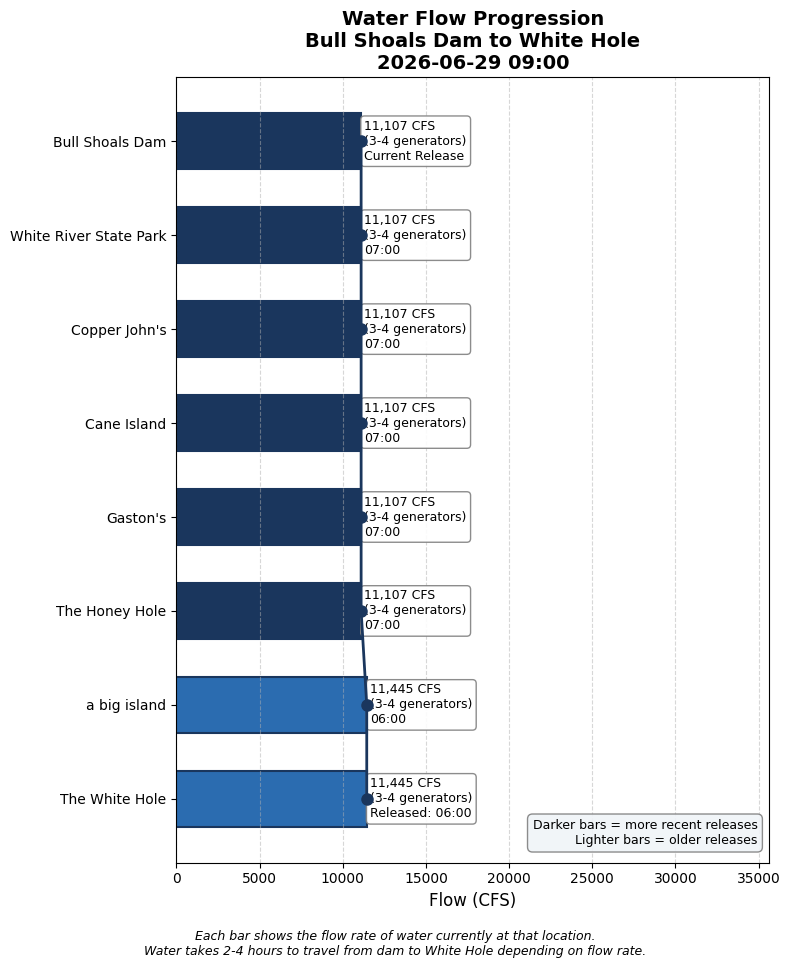
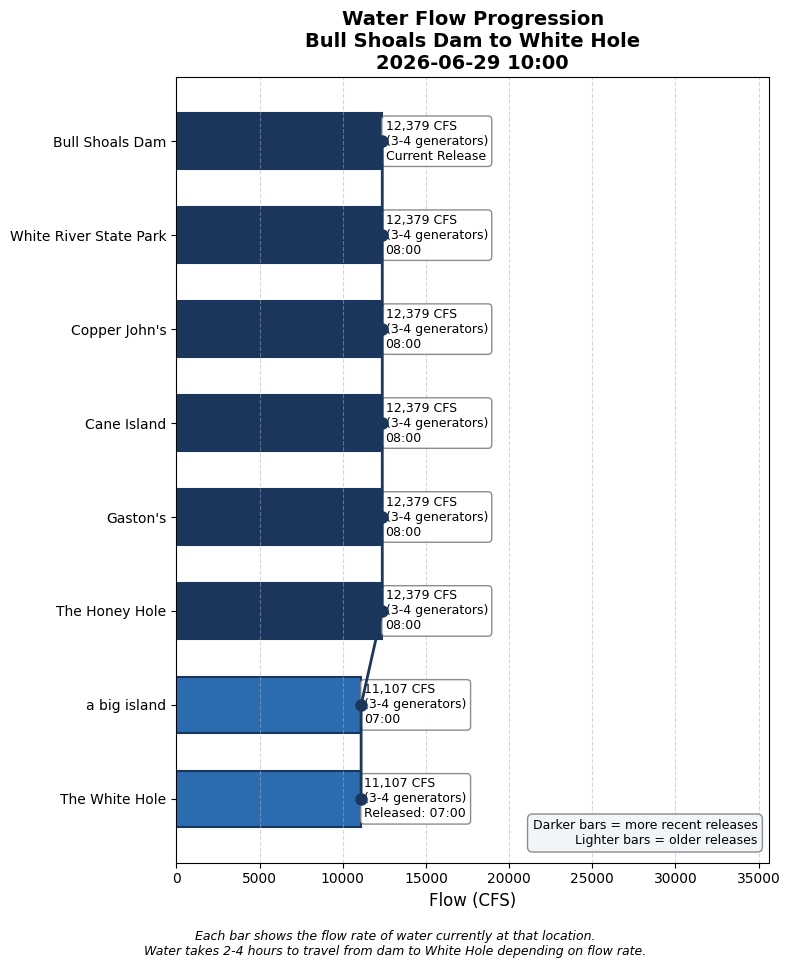
Update water conditions 2026-06-29 10:00

Changed region(s): [[0.4557, 0.093, 0.638, 0.8678], [0.4861, 0.062, 0.5772, 0.093], [0.638, 0.062, 0.6987, 0.093]]

diff --git a/white_hole_conditions.html b/white_hole_conditions.html
@@ -3,7 +3,7 @@
 <head>
     <meta charset="UTF-8">
     <meta name="viewport" content="width=device-width, initial-scale=1.0">
-    <title>White Hole Conditions - 2026-06-29 09:00</title>
+    <title>White Hole Conditions - 2026-06-29 10:00</title>
     <style>
         body {
             font-family: -apple-system, BlinkMacSystemFont, 'Segoe UI', Roboto, sans-serif;
@@ -148,7 +148,7 @@
 </head>
 <body>
     <h1>White Hole Current Conditions</h1>
-    <p class="subtitle">Monday, June 29, 2026 at 09:00 AM</p>
+    <p class="subtitle">Monday, June 29, 2026 at 10:00 AM</p>
 
     <!-- HEADLINE BANNER -->
     <div class="headline-banner">
@@ -160,7 +160,7 @@
     <!-- CURRENT CONDITIONS -->
     <div class="current-conditions">
         <h3>Current Conditions at White Hole</h3>
-        <div class="flow-display">11,445 CFS</div>
+        <div class="flow-display">11,107 CFS</div>
         <div class="generator-display">Equivalent to 3-4 generators</div>
         <div class="condition-pills">
             <span class="pill wading">No Wading</span>
@@ -189,6 +189,14 @@
                 <tr><td colspan="3" style="padding: 8px 10px; font-size: 0.8em; font-weight: bold; color: #6b46c1; text-transform: uppercase; letter-spacing: 0.05em; background-color: #f3e8ff;">Scheduled (SWPA forecast)</td></tr>
                 
                     <tr style="background-color: #faf5ff; ">
+                        <td style="padding: 10px; font-weight: bold;">1 PM</td>
+                        <td style="padding: 10px;">20,506 CFS<br><small style="color: #666;">(6-7 generators: 20256 generation + 250 min flow)</small></td>
+                        <td style="padding: 10px;">~3:01 PM
+                            <span style="display: inline-block; margin-left: 6px; padding: 2px 8px; border-radius: 12px; font-size: 0.8em; background-color: #fee2e2; color: #991b1b;">No Wading</span>
+                        </td>
+                    </tr>
+                
+                    <tr style="background-color: #faf5ff; ">
                         <td style="padding: 10px; font-weight: bold;">12 PM</td>
                         <td style="padding: 10px;">20,506 CFS<br><small style="color: #666;">(6-7 generators: 20256 generation + 250 min flow)</small></td>
                         <td style="padding: 10px;">~2:01 PM
@@ -212,33 +220,25 @@
                         </td>
                     </tr>
                 
-                    <tr style="background-color: #faf5ff; ">
-                        <td style="padding: 10px; font-weight: bold;">9 AM</td>
-                        <td style="padding: 10px;">13,754 CFS<br><small style="color: #666;">(4-5 generators: 13504 generation + 250 min flow)</small></td>
-                        <td style="padding: 10px;">~11:23 AM
-                            <span style="display: inline-block; margin-left: 6px; padding: 2px 8px; border-radius: 12px; font-size: 0.8em; background-color: #fee2e2; color: #991b1b;">No Wading</span>
-                        </td>
-                    </tr>
-                
             
                     
                 <tr><td colspan="3" style="padding: 8px 10px; font-size: 0.8em; font-weight: bold; color: #2b6cb0; text-transform: uppercase; letter-spacing: 0.05em; background-color: #ebf8ff;">Actual (dam readings)</td></tr>
                 
                     <tr style="background-color: #ebf8ff;">
-                        <td style="padding: 10px; font-weight: bold;">7:00 AM</td>
-                        <td style="padding: 10px;">11,107 CFS<br><small style="color: #666;">(3-4 generators)</small></td>
-                        <td style="padding: 10px;"><span style="color: #2b6cb0;">→ Arrives ~9:34 AM (in 34 min)</span></td>
+                        <td style="padding: 10px; font-weight: bold;">8:00 AM</td>
+                        <td style="padding: 10px;">12,379 CFS<br><small style="color: #666;">(3-4 generators)</small></td>
+                        <td style="padding: 10px;"><span style="color: #2b6cb0;">→ Arrives ~10:29 AM (in 29 min)</span></td>
                     </tr>
                 
                     <tr style="background-color: #e6fffa;">
-                        <td style="padding: 10px; font-weight: bold;">6:00 AM</td>
-                        <td style="padding: 10px;">11,445 CFS<br><small style="color: #666;">(3-4 generators)</small></td>
+                        <td style="padding: 10px; font-weight: bold;">7:00 AM</td>
+                        <td style="padding: 10px;">11,107 CFS<br><small style="color: #666;">(3-4 generators)</small></td>
                         <td style="padding: 10px;"><span style="color: #319795; font-weight: bold;">← AT WHITE HOLE NOW</span></td>
                     </tr>
                 
                     <tr style="">
-                        <td style="padding: 10px; font-weight: bold;">2:00 AM</td>
-                        <td style="padding: 10px;">11,355 CFS<br><small style="color: #666;">(3-4 generators)</small></td>
+                        <td style="padding: 10px; font-weight: bold;">3:00 AM</td>
+                        <td style="padding: 10px;">11,501 CFS<br><small style="color: #666;">(3-4 generators)</small></td>
                         <td style="padding: 10px;"><span style="color: #718096;">passed</span></td>
                     </tr>
                 
@@ -268,9 +268,9 @@
         </summary>
         <div style="padding: 15px;">
             <ul>
-                <li>Latest dam reading: 11,107 CFS at 2026-06-29 07:00</li>
+                <li>Latest dam reading: 12,379 CFS at 2026-06-29 08:00</li>
                 <li>Travel time to White Hole: 2.6 hours at current flow</li>
-                <li>White Hole conditions based on dam reading from: 2026-06-29 06:00</li>
+                <li>White Hole conditions based on dam reading from: 2026-06-29 07:00</li>
             </ul>
         </div>
     </details>
@@ -292,6 +292,13 @@
                     </thead>
                     <tbody>
                         
+                <tr style="border-bottom: 1px solid #eee;">
+                    <td style="padding: 8px;">2026-06-29 08:00</td>
+                    <td style="padding: 8px; text-align: right;">12379</td>
+                    <td style="padding: 8px; text-align: right;">3.8</td>
+                    <td style="padding: 8px; text-align: right;">2.5</td>
+                </tr>
+                
                 <tr style="border-bottom: 1px solid #eee;">
                     <td style="padding: 8px;">2026-06-29 07:00</td>
                     <td style="padding: 8px; text-align: right;">11107</td>
@@ -348,13 +355,6 @@
                     <td style="padding: 8px; text-align: right;">2.6</td>
                 </tr>
                 
-                <tr style="border-bottom: 1px solid #eee;">
-                    <td style="padding: 8px;">2026-06-28 22:00</td>
-                    <td style="padding: 8px; text-align: right;">11331</td>
-                    <td style="padding: 8px; text-align: right;">3.4</td>
-                    <td style="padding: 8px; text-align: right;">2.6</td>
-                </tr>
-                
                     </tbody>
                 </table>
             </div>
@@ -362,7 +362,7 @@
         
 
     <div class="timestamp">
-        Data retrieved and processed on 2026-06-29 09:00:08
+        Data retrieved and processed on 2026-06-29 10:00:07
     </div>
 </body>
 </html>
